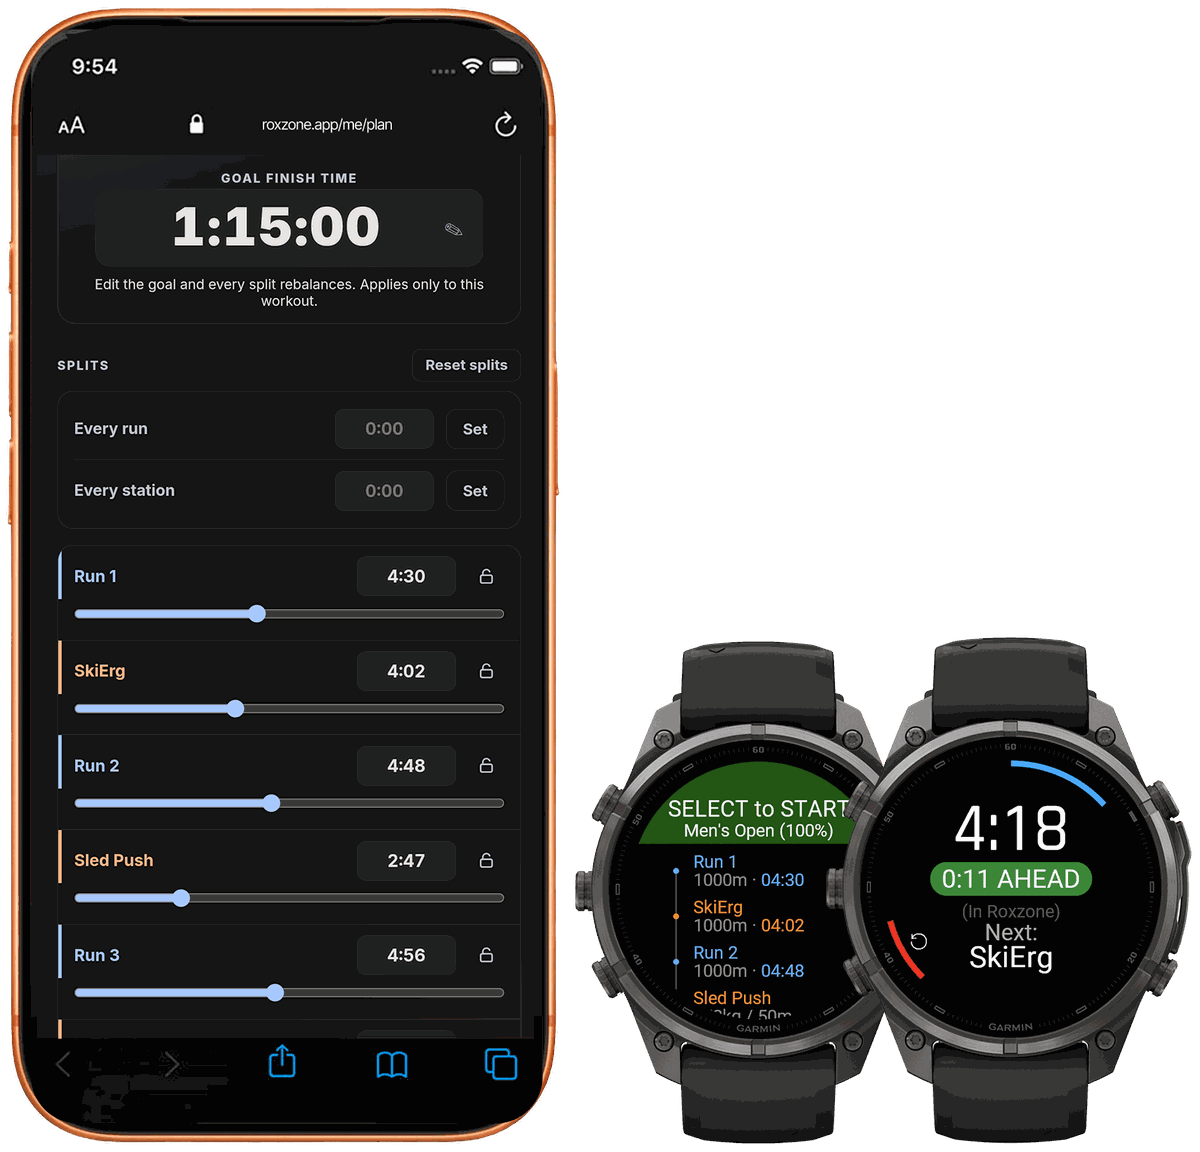
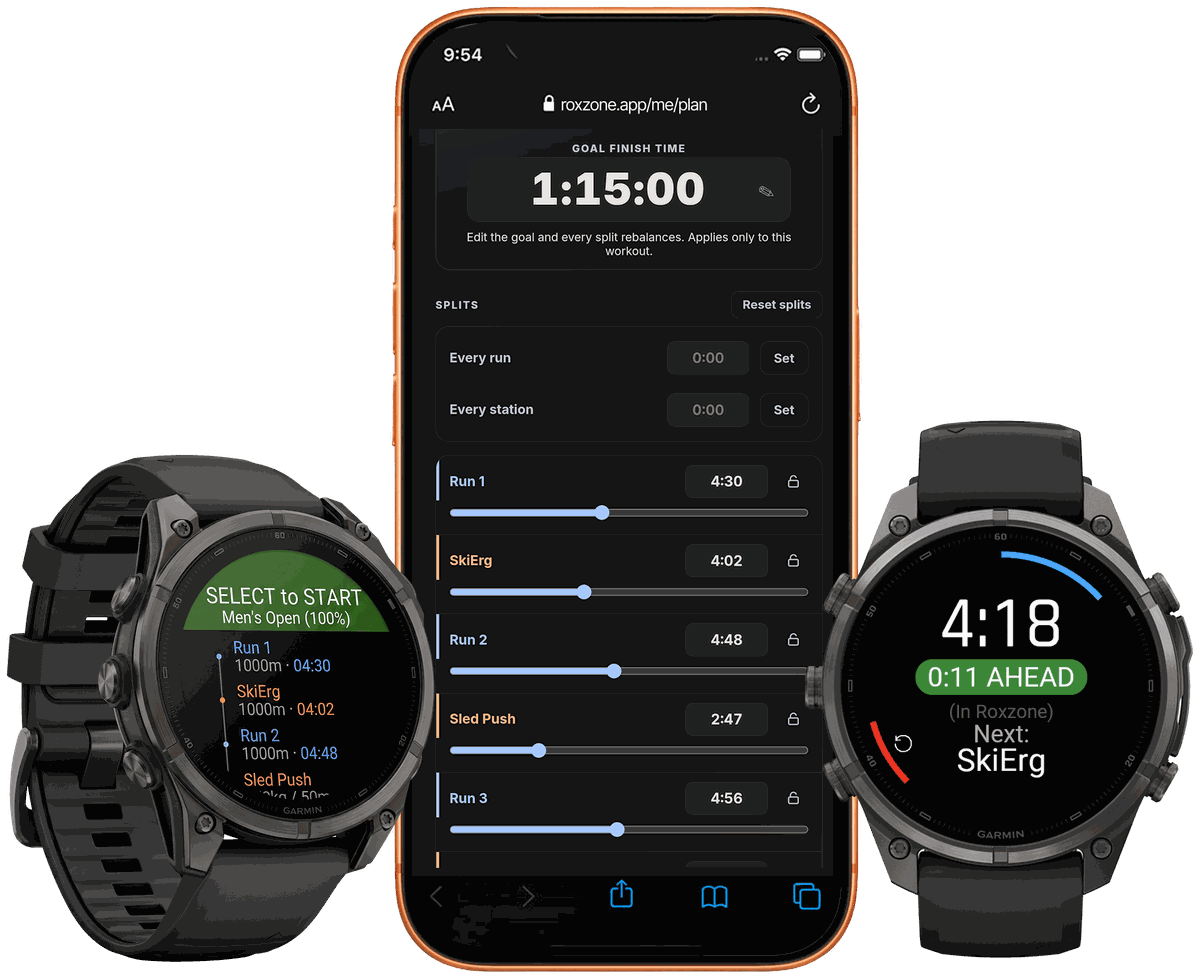
Race Plan artwork: the triptych - phone centre, ladder watch and live watch flanking

diff --git a/index.html b/index.html
@@ -417,9 +417,9 @@
         <figure class="plan-media">
           <picture>
             <source srcset="./assets/race-plan.webp" type="image/webp">
-            <img src="./assets/race-plan.png" width="1200" height="1152"
+            <img src="./assets/race-plan.png" width="1200" height="979"
                  loading="lazy" decoding="async"
-                 alt="A race plan being built on a phone at roxzone.app next to two Garmin watches: one showing the plan's targets on the workout ladder, the other showing a lap 0:11 ahead of the plan">
+                 alt="A race plan being built on a phone at roxzone.app, flanked by two Garmin watches: one showing the plan's targets on the workout ladder, the other showing a lap 0:11 ahead of the plan">
           </picture>
         </figure>
 

diff --git a/styles.css b/styles.css
@@ -2610,9 +2610,9 @@ font[style*="background-color"] {
     margin: 0;
     justify-self: center;
     width: 100%;
-    /* Sized so the phone in the artwork (46% of its width) renders at the
+    /* Sized so the phone in the artwork (39% of its width) renders at the
        same ~270px as each phone in the Social Share clip below. */
-    max-width: 580px;
+    max-width: 698px;
     line-height: 0;
 }
 
